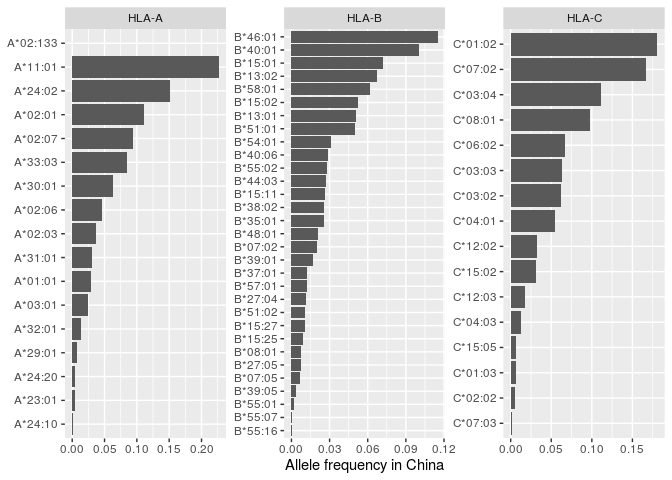
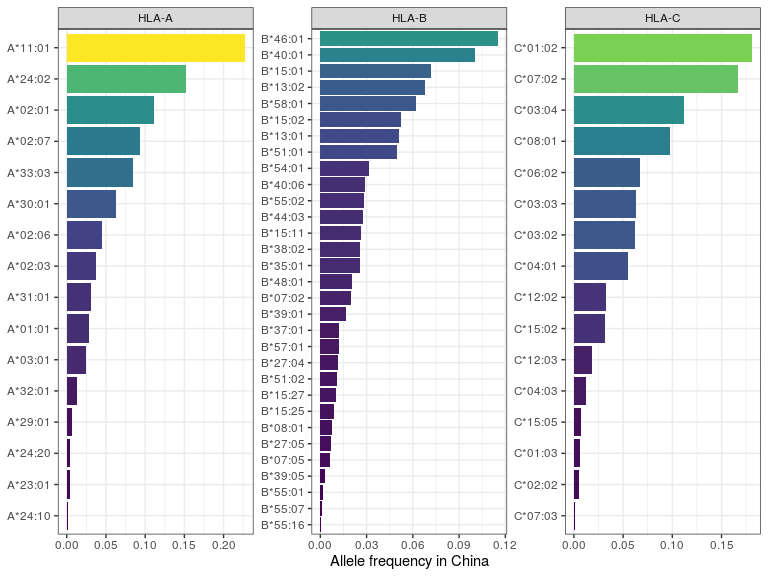
add colors

Changed region(s): [[0.0, 0.0, 1.0, 1.0]]

diff --git a/eda.md b/eda.md
@@ -225,10 +225,14 @@ apenas possui uma frequência muita baixa numa outra população.
 No entanto, para os outros alelos, podemos plotar a frequência:
 
 ``` r
-ggplot(allele_freqs, aes(x = wf, y = reorder(allele, wf))) +
-    geom_col() +
+allele_freqs %>%
+    drop_na() %>%
+    ggplot(aes(x = wf, y = reorder(allele, wf), fill = wf)) +
+    geom_col(show.legend = FALSE) +
+    scale_fill_viridis_c(option = "viridis") +
     facet_wrap(~locus, scales = "free", nrow = 1) +
-    labs(x = "Allele frequency in China", y = NULL)
+    labs(x = "Allele frequency in China", y = NULL) +
+    theme_bw()
 ```
 
 ![](eda_files/figure-gfm/unnamed-chunk-10-1.png)<!-- -->
